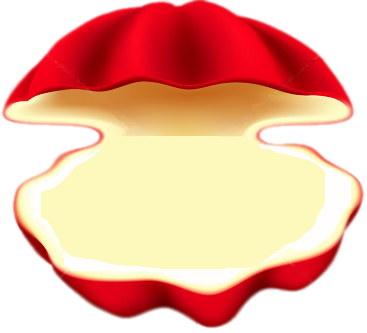
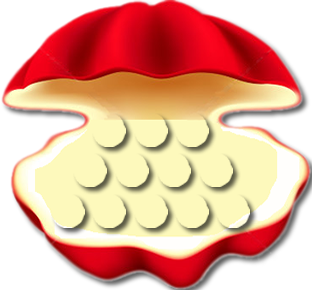
...

diff --git a/platforms/android/assets/www/css/lps.css b/platforms/android/assets/www/css/lps.css
@@ -52,25 +52,39 @@ body {
 	text-align: center;
 /*	background-color:#F3CCCC;*/
 }
-.menu li, .placar li{
+.menu li{
 	list-style: none;
 	padding: 5px 0px; 
+}
+.placar li{
+	list-style: none;
+}
+.placar li p{
+	font-size: 16px;
+	font-weight: bold;
+	padding: 10px 0px;
 }
 .menu li p, .placar li p{
 	font-size: 16px;
 	font-weight: bold;
 }
 .placar{
-	width: 250px;
-	height: 250px;
+	width: 175px;
+	height: 240px;
+	color: #FDF9BC;
 	position: absolute;
 	top: 50%;
 	left: 50%;
-	margin-top: -125px;
-	margin-left: -125px;
+	margin-top: -120px;
+	margin-left: -87.5px;
 	z-index: 3;	
 	text-align: center;
-	background-color: #FDF9BC;
+	background-color: #F20018;
+	border: 5px ridge #FDF9BC ;
+	-webkit-border-radius: 20px;
+}
+.placar ul{
+	padding: 5px;	
 }
 .ajuda{
 	margin-top: -55px;
@@ -110,14 +124,15 @@ body {
 .concha{
 	background: url(../img/shell-mesh.png);
 	background-repeat: no-repeat;
-	width: 360px;
-    height: 360px;
+	background-size:  312px 290px;
+	width: 312px;
+    height: 290px;
 	position: fixed;
 	z-index: 2;
-	top: 50%;
+	top: 60%;
 	left: 50%;
-	margin-top: -110px;
-	margin-left: -180px;
+	margin-top: -135px;
+	margin-left: -156px;
 		
 }
 .botao_passar{
@@ -150,22 +165,30 @@ h1{
 .perola{
 	background-image: url(../img/perola.png);
 	background-repeat: no-repeat;
-	background-size: 37px 37px;
-	width: 37px;
-	height: 37px;	
+	background-size: 34px 34px;
+	width: 34px;
+	height: 34px;	
 }
 .box_perolas{
 	position: fixed;
 	z-index: 5;	
 	top: 50%;
 	left: 50%;
-	width: 300px;
+	width: 250px;
 	height: 120px;
-	margin-left: -170px;
-	margin-top: 25px;
+	margin-left: -175px;
+	margin-top: 32px;
+		background-color:#F3CCCC;
 }
 .box_perolas li{
     list-style: none;
    	display: inline-block;
 	margin-top: -10px;
+}
+.fundo_sobre{
+	background-image: url(../img/sobre.png);
+	background-repeat: no-repeat;
+	background-size: 100% 100%;
+	width: 100%;
+	height: 100%;		
 }

diff --git a/platforms/android/assets/www/index.html b/platforms/android/assets/www/index.html
@@ -15,7 +15,11 @@ document.addEventListener("deviceready", function()
 {	
 /*	var myMedia = new Media("audio/somJogo.mp3");
   	myMedia.play();*/
-  
+  	
+  	playAudio("audio/somJogo.mp3");
+  	
+  	//playAudio("http://audio.ibeat.org/content/p1rj1s/p1rj1s_-_rockGuitar.mp3");
+
 	$('.botao').click(function()
 	{
 	  	switch($(this).val())
@@ -37,6 +41,32 @@ document.addEventListener("deviceready", function()
 		}
 	});
 },false);
+function playAudio(url) 
+{
+    // Play the audio file at url
+    var my_media = new Media(url,
+        // success callback
+        function() {
+            console.log("playAudio():Audio Success");
+        },
+        // error callback
+        function(err) {
+            console.log("playAudio():Audio Error: "+err);
+    });
+
+    // Play audio
+    my_media.play();
+
+    // Mute volume after 2 seconds
+    setTimeout(function() {
+        my_media.setVolume('0.0');
+    }, 2000);
+
+    // Set volume to 1.0 after 5 seconds
+    setTimeout(function() {
+        my_media.setVolume('1.0');
+    }, 5000);
+}
 </script>
 </head>
 <body>

diff --git a/platforms/android/assets/www/jogo.html b/platforms/android/assets/www/jogo.html
@@ -17,7 +17,7 @@ var nivel;
 $(document).ready(function(e) 
 {
 	nivel = window.localStorage.getItem('nivel') || 1;
-	
+
 	if(nivel == '2'){
 		$('.titulo').text('Nível Médio');
 	}else if(nivel == '3'){
@@ -39,7 +39,7 @@ $(document).ready(function(e)
 				filaEscolhida = fileira;
 				
 				if(isUltimaPerola()){
-			   		atualizarPlacar(nivel, 0);
+			   		atualizarPlacar(parseInt(nivel), 0);
 			    }
 			}
 		}
@@ -48,12 +48,12 @@ $(document).ready(function(e)
 	$('.botao_passar').click(function ()
 	{
 		if(parseInt(filaEscolhida) != -1){
-			
+
 			filaEscolhida = -1;
-			jogarOponente(nivel);
+			jogarOponente(parseInt(nivel));
 			
 			if(isUltimaPerola()){
-			   atualizarPlacar(nivel, 1);
+			   atualizarPlacar(parseInt(nivel), 1);
 			}
 		}
 	});
@@ -66,7 +66,7 @@ $(document).ready(function(e)
 </audio>-->
 <div class="fundo_jogo"></div>
 <div class="concha">
-  <p class="titulo">Nível Fácil</p>
+  <p class="titulo" style="top: 10%;">Nível Fácil</p>
 </div>
 <div class="box_perolas" align="center">
 <ul>

diff --git a/platforms/android/assets/www/sobre.html b/platforms/android/assets/www/sobre.html
@@ -4,26 +4,12 @@
 <meta charset="utf-8" />
 <meta http-equiv="Content-Type" content="text/html; charset=utf-8" />
 <meta name="viewport" content="width=device-width, user-scalable=no" />
-<title>Ajuda</title>
+<title>Sobre</title>
 <link href="css/reset.css" rel="stylesheet" type="text/css">
 <link href="css/lps.css" rel="stylesheet" type="text/css">
 </head>
 <body>
-<div class="fundo_menu">
-  <div class="menu opcoes">
-      <p class="titulo">Opções</p>
-    <ul>
-      <li>
-        <input type="button" class="botao" value="Som Desligado">
-      </li>
-      <li>
-        <input type="button" class="botao" value="Nível Fácil">
-      </li>
-      <li>
-        <input type="button" class="botao" value="Limpar Jogo">
-      </li>
-    </ul>
-  </div>
+<div class="fundo_sobre">
 </div>
 </body>
 </html>

diff --git a/platforms/android/assets/www/opcoes.html b/platforms/android/assets/www/opcoes.html
@@ -38,18 +38,18 @@ $(document).ready(function(e)
 				break;
 			case 'Nível Fácil':
 				 $(this).val('Nível Médio');
-				 window.localStorage.setItem('nivel',1);
+				 window.localStorage.setItem('nivel',2);
 				break;
 			case 'Nível Médio':
 				 $(this).val('Nível Difícil');
-				 window.localStorage.setItem('nivel',2);
+				 window.localStorage.setItem('nivel',3);
 				break;
 			case 'Nível Difícil':
 				 $(this).val('Nível Fácil');
-				 window.localStorage.setItem('nivel',3);
+				 window.localStorage.setItem('nivel',1);
 				break;
 			case 'Limpar Placar':
-				 alert('limpar');
+				window.localStorage.removeItem('placar');
 		}
 	});
 });
